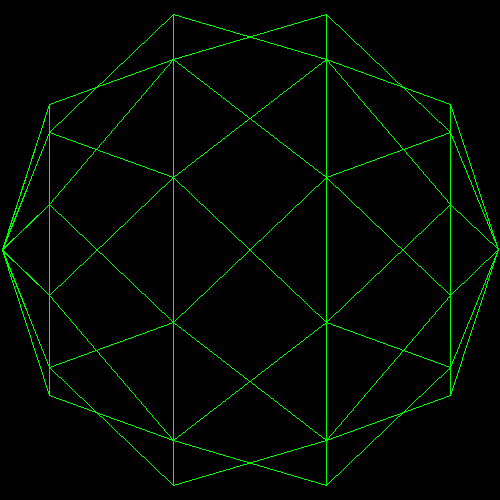
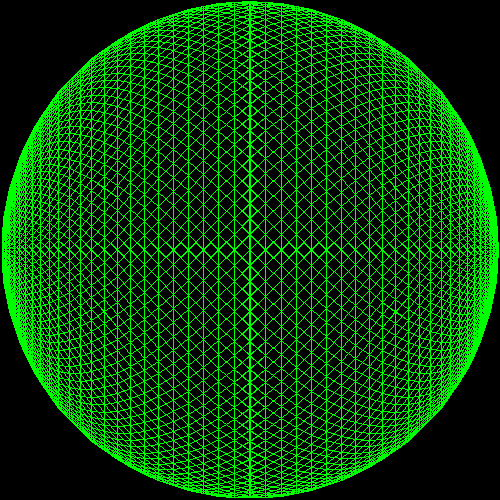
yay, should work

Changed region(s): [[0.0, 0.0, 1.0, 1.0]]

diff --git a/draw.c b/draw.c
@@ -89,7 +89,7 @@ void add_sphere( struct matrix * points,
   double x, y, z;
   int num_steps;
 
-  step = 10;
+  //step = 10;
   num_steps = MAX_STEPS / step;
 
   temp = new_matrix( 4, num_steps * num_steps );
